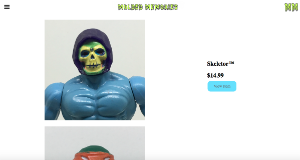
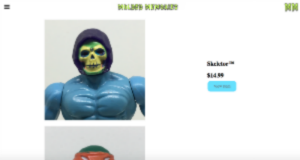
added sticky navbar and link improvemtns

diff --git a/index.html b/index.html
@@ -12,21 +12,34 @@
 		<img src="img/headshot.png" alt="Adam Cox" class="mugshot">
 		<h1>Adam Cox</h1>
 		<p class="title">FrontEnd Web Developer</p>
-		<div class="headerLinks">
-			<a href="#">Home</a>
-			<a href="#">Projects</a>
-			<a href="#">Social</a>
+		<div id="navbar" class="headerLinks">
+			<a href="#about">About</a>
+			<a href="#portfolio">Projects</a>
+			<a href="#social">Social</a>
 		</div>
 	</header>
-	<p>Talk about myself, tell a story</P>
+	<a id="about"></a>
+		<div class="bio">
+			<p>blah blah blah blah blah blah blah blah blah blah blah blah blah blah blah blah blah blah blah blah blah blah blah blah blah blah blah blah blah blah blah blah blah blah blah blah blah blah blah blah blah blah blah blah blah blah blah blah blah blah blah blah blah blah blah blah blah blah blah blah blah blah blah blah blah blah blah blah blah blah blah blah blah blah blah blah blah blah blah blah blah blah blah blah blah blah blah blah blah blah blah blah blah blah blah blah blah blah blah blah blah blah blah blah blah blah blah blah blah blah blah blah blah blah blah blah blah blah blah blah </p>
+		</div>
+
+	<a id="portfolio"></a>
 	<div class="projects">
-		<a href="#"><img src="img/bootstrap.png" alt="bootstrap"></a>
-		<a href="#"><img src="img/molded_memories.png" alt="molded memories"></a>
-		<a href="#"><img src="img/wwwcwa.png" alt="wwwcwa"></a>
-		<a href="#"><img src="img/marty.png" alt="endless Marty"></a>
+		<a href="https://adamcox37.github.io/louisville_bootstrap/" target="_blank"><img src="img/bootstrap.png" alt="bootstrap"></a>
+		<a href="http://adamcox37.github.io/online_shop" target="_blank"><img src="img/molded_memories.png" alt="molded memories"></a>
+		<a href="https://adamcox37.github.io/sports-page/" target="_blank"><img src="img/wwwcwa.png" alt="wwwcwa"></a>
+		<a href="#" target="_blank"><img src="img/marty.png" alt="endless Marty"></a>
 	</div>
+
+	<a id="social"></a>
+		<div class="socialLinks">
+			<p>socail social social socail social social socail social social socail social social socail social social socail social social socail social social socail social social socail social social socail social social socail social social socail social social socail social social socail social social socail social social socail social social socail social social socail social social socail social social socail social social socail social social socail social social </p>
+		</div>
+
 	<footer>
-		<p>&copy; Adam Cox</p>
+		<p><script type="text/javascript">
+  document.write(new Date().getFullYear());
+</script> Adam Cox</p>
 	</footer>
 	<script src="js/scripts.js"></script>
 </body>

diff --git a/css/styles.css b/css/styles.css
@@ -33,7 +33,7 @@ a, p, h1 {
 		Header
 ***********************/
 header {
-	padding-top: 75%;
+	/*margin-top: 50%;*/
 	background: url("background.png");
 }
 
@@ -48,12 +48,41 @@ header {
 	text-align: center;
 }
 
-.headerLinks {
+/*** Fixed Navbar ***/
+#navbar {
+	overflow: hidden;
 	background-color: black;
-	padding: 10px;
 	display: flex;
-	justify-content: space-around;
+	justify-content: space-between;
+	padding: 10px;
 }
+
+/* Page content */
+.content {
+	padding: 10px;
+}
+
+/* The sticky class is added to the navbar with JS when it reaches its scroll position */
+.sticky {
+	position: fixed;
+	top: 0;
+	width: 97%;
+}
+
+/* Add some top padding to the page content to prevent sudden quick movement (as the navigation bar gets a new position at the top of the page (position:fixed and top:0) */
+.sticky + .content {
+	padding-top: 60px;
+}
+
+/*** Body ***/
+.bio {
+	margin: 5%;
+}
+
+.projects {
+	margin: auto;
+}
+
 
 /***********************
 		Footer

diff --git a/js/scripts.js b/js/scripts.js
@@ -1,1 +1,18 @@
-//JS
+// Sticky NavBar //
+// When the user scrolls the page, execute myFunction 
+window.onscroll= function() {myFunction()};
+
+// Get the navbar
+var navbar= document.getElementById("navbar");
+
+// Get the offset position of the navbar
+var sticky= navbar.offsetTop;
+
+// Add the sticky class to the navbar when you reach its scroll position. Remove "sticky" when you leave the scroll position
+function myFunction() {
+	if(window.pageYOffset >= sticky) {
+		navbar.classList.add("sticky")
+	} else {
+		navbar.classList.remove("sticky");
+	}
+}
